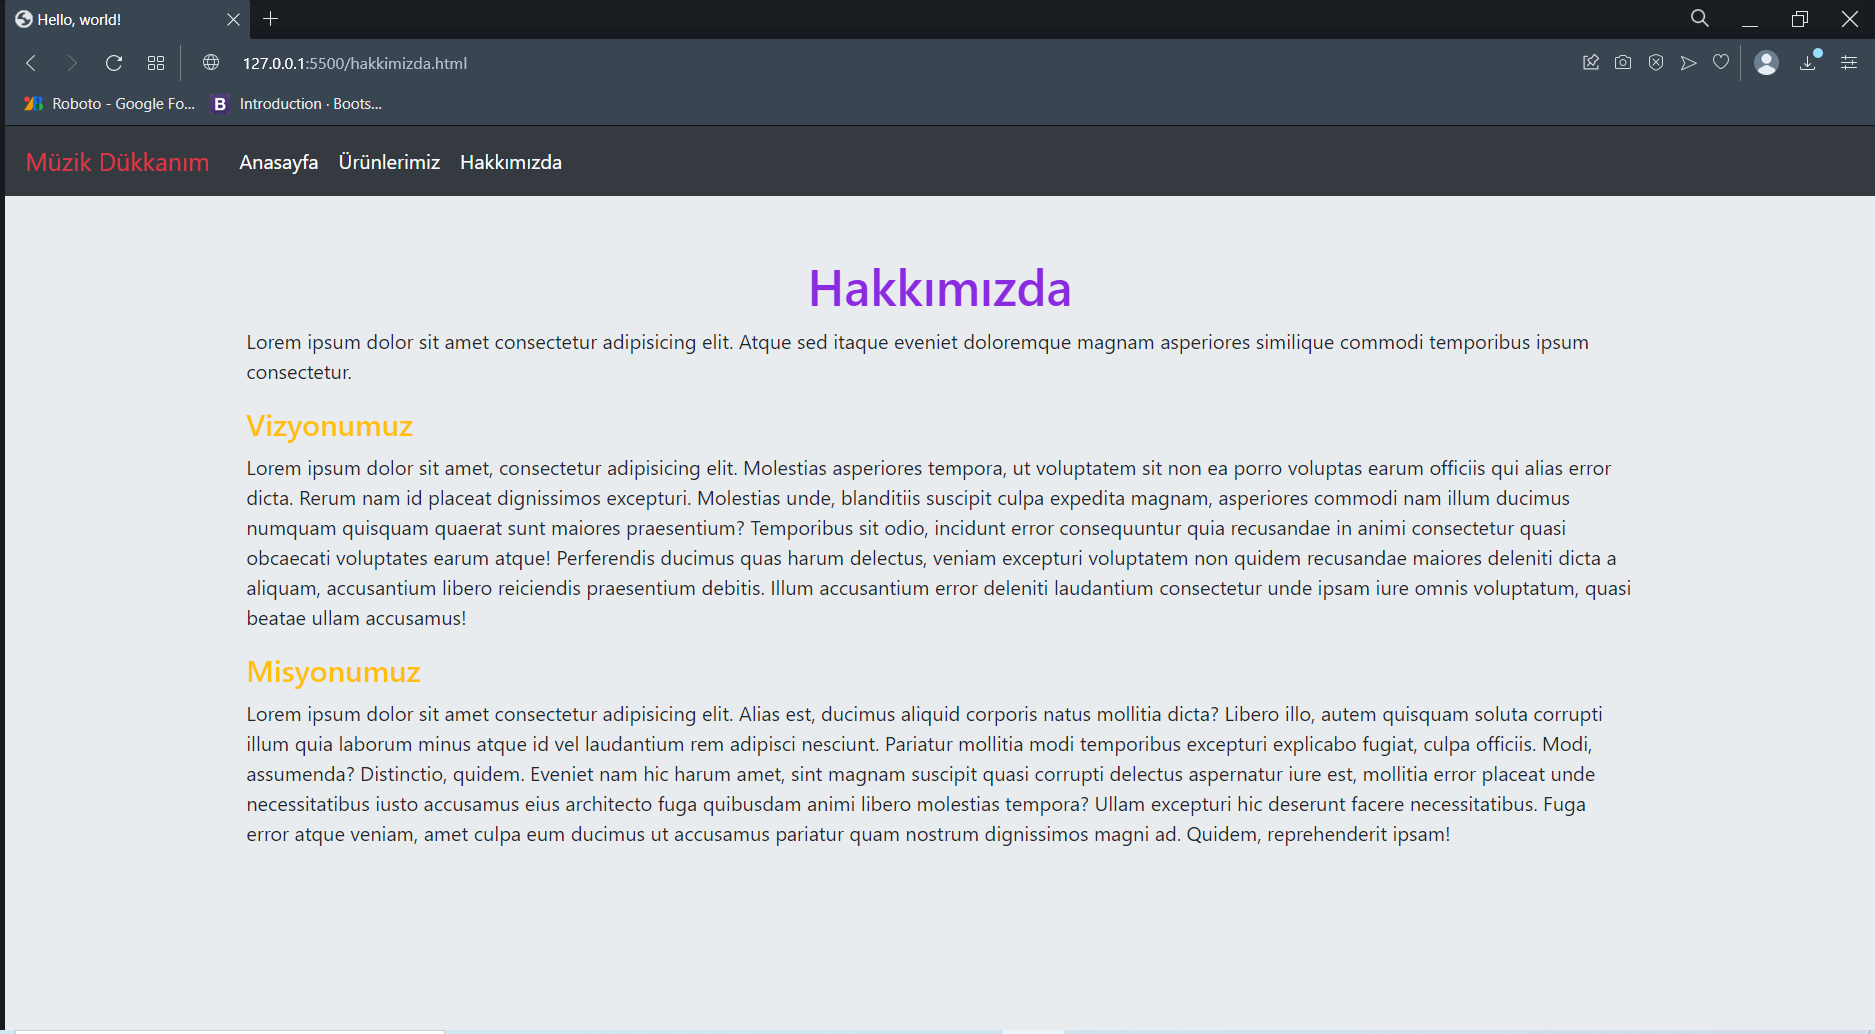
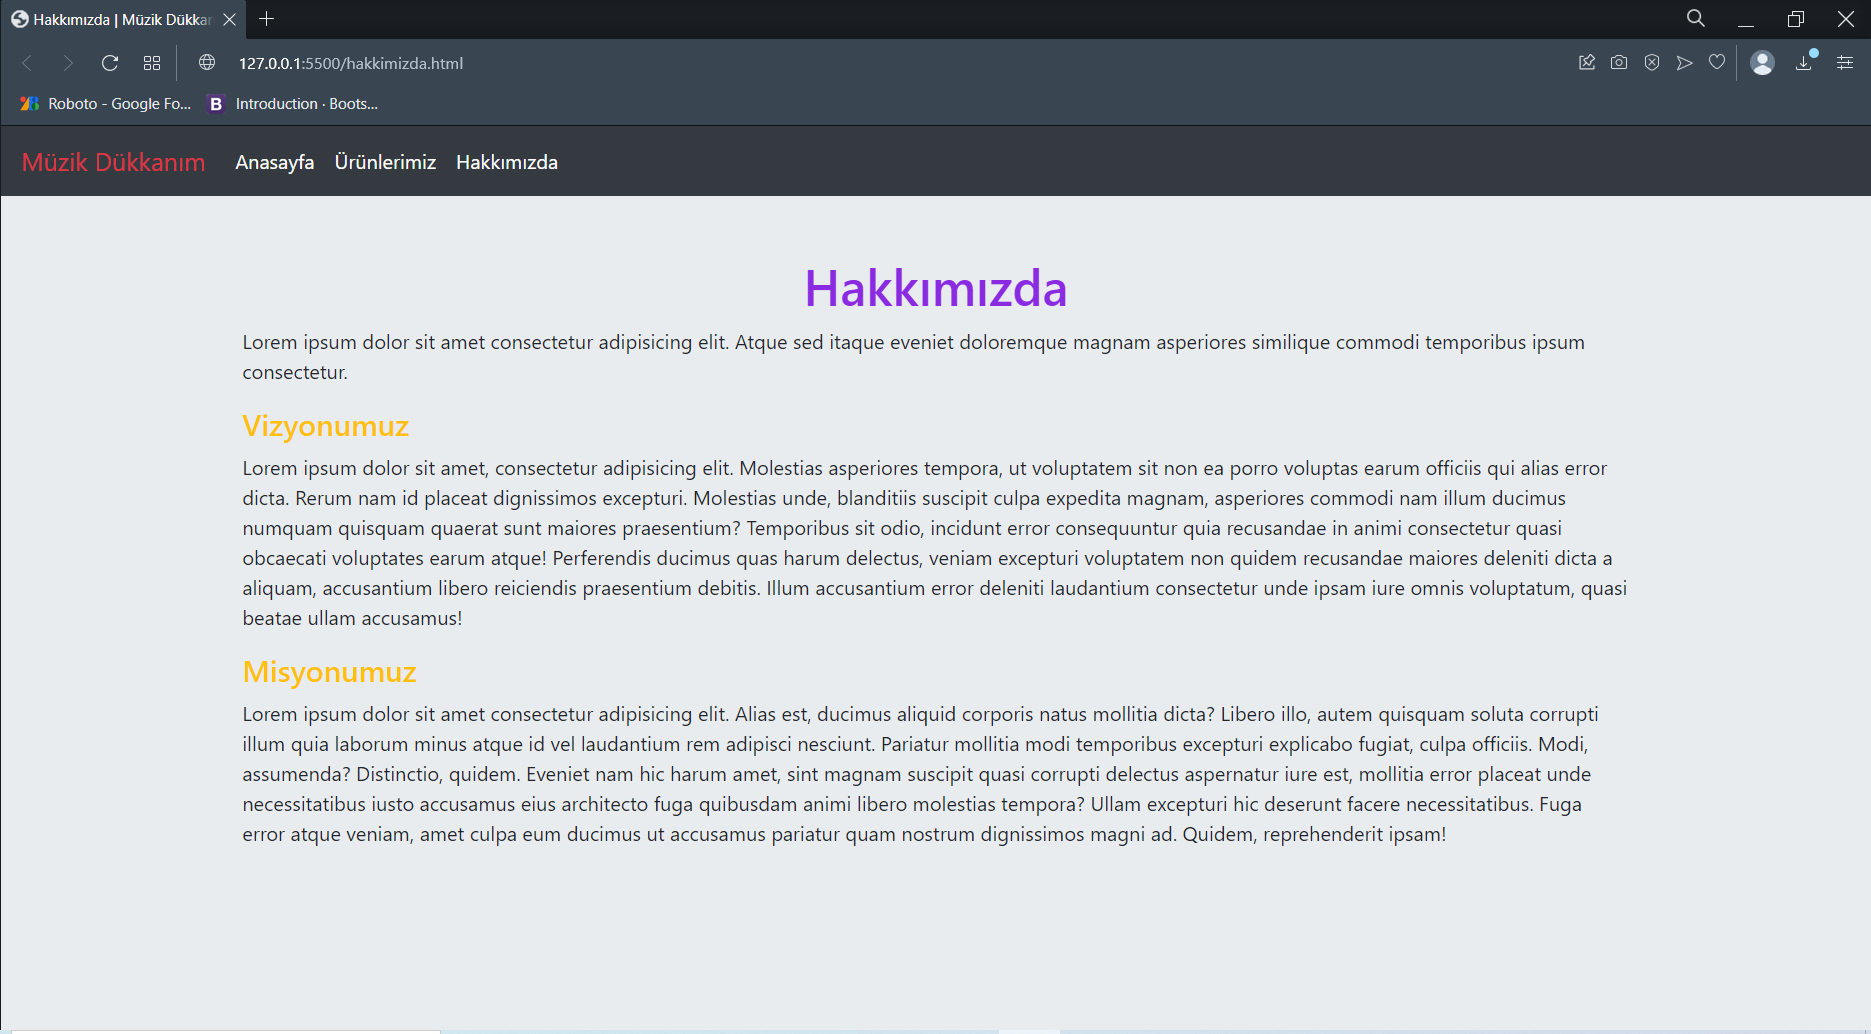
Main | Second Commit

Changed region(s): [[0.124, 0.4023, 0.868, 0.8356], [0.124, 0.2476, 0.837, 0.3714], [0.0, 0.0, 0.31, 0.1857]]

diff --git a/hakkimizda.html b/hakkimizda.html
@@ -8,7 +8,7 @@
     <!-- Bootstrap CSS -->
     <link rel="stylesheet" href="https://cdn.jsdelivr.net/npm/bootstrap@4.5.3/dist/css/bootstrap.min.css" integrity="sha384-TX8t27EcRE3e/ihU7zmQxVncDAy5uIKz4rEkgIXeMed4M0jlfIDPvg6uqKI2xXr2" crossorigin="anonymous">
 
-    <title>Hello, world!</title>
+    <title>Hakkımızda | Müzik Dükkanım</title>
   </head>
   <body style="background-color: #E9ECEF;">
     <nav class="navbar navbar-expand-lg bg-dark">
